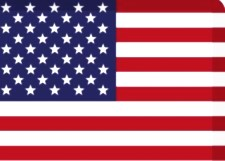
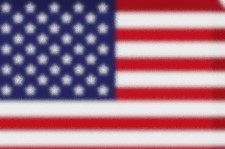
some modification done

diff --git a/style.css b/style.css
@@ -106,9 +106,9 @@
 
 .flag {
   background-image: url("/Images/us-flag.jpg");
-  background-size: cover;
-  width: 21.6px;
-  height: 16.2px;
+  background-size: contain;
+  width: 20px;
+  height: 14.2px;
 }
 
 .lang-select {
@@ -116,7 +116,7 @@
   background-color: #0f1111;
   border: none;
   font-weight: bold;
-  font-size: 14px;
+  font-size: 13px;
 }
 
 /* box 5 --------->> */
@@ -203,15 +203,17 @@ span {
   display: flex;
   flex-wrap: wrap;
   justify-content: space-evenly;
-  background-color: #ffe572;
-}
+  background: linear-gradient(to bottom, #5002b8,#e3e6e6, #e3e6e6, #e3e6e6, #e3e6e6, #e3e6e6, #e3e6e6); 
+} 
+/* Great aman!! keeping going 🤟 */
 
 .box {
   height: 400px;
   width: 23%;
   background-color: white;
   padding: 20px 0px 15px;
-  margin-top: 15px;
+  margin-top: -4px;
+  margin-bottom: 26px;
 }
 
 .box-img {
@@ -224,10 +226,43 @@ span {
 .box-content {
   margin-left: 1rem;
   margin-right: 1rem;
+  color: #0f1111;
+  font-size: 13px;;
 }
 
 .box-content p {
   color: #007185;
+}
+
+.box-content p:hover{
+  color: #c45500;
+}
+
+.slider-outer{
+  height: 300px;
+  width: 100%;
+  background-color: #e3e6e6;
+  margin-bottom: 30px;
+}
+
+.slider-inner{
+  height: 290px;
+  width: 97%;
+  background-color: white;
+  margin: 0 0 0 22px;
+}
+
+.slider-img{
+  height: 200px;
+  background-size: cover;
+  margin-top: 1rem;
+}
+
+.slider-content{
+  margin: 0 1rem 0 1rem;
+  padding-top: 1.5rem;
+  color: #0f1111;
+  font-size: 13px;
 }
 
 /* footer part starts here ---->>*/
